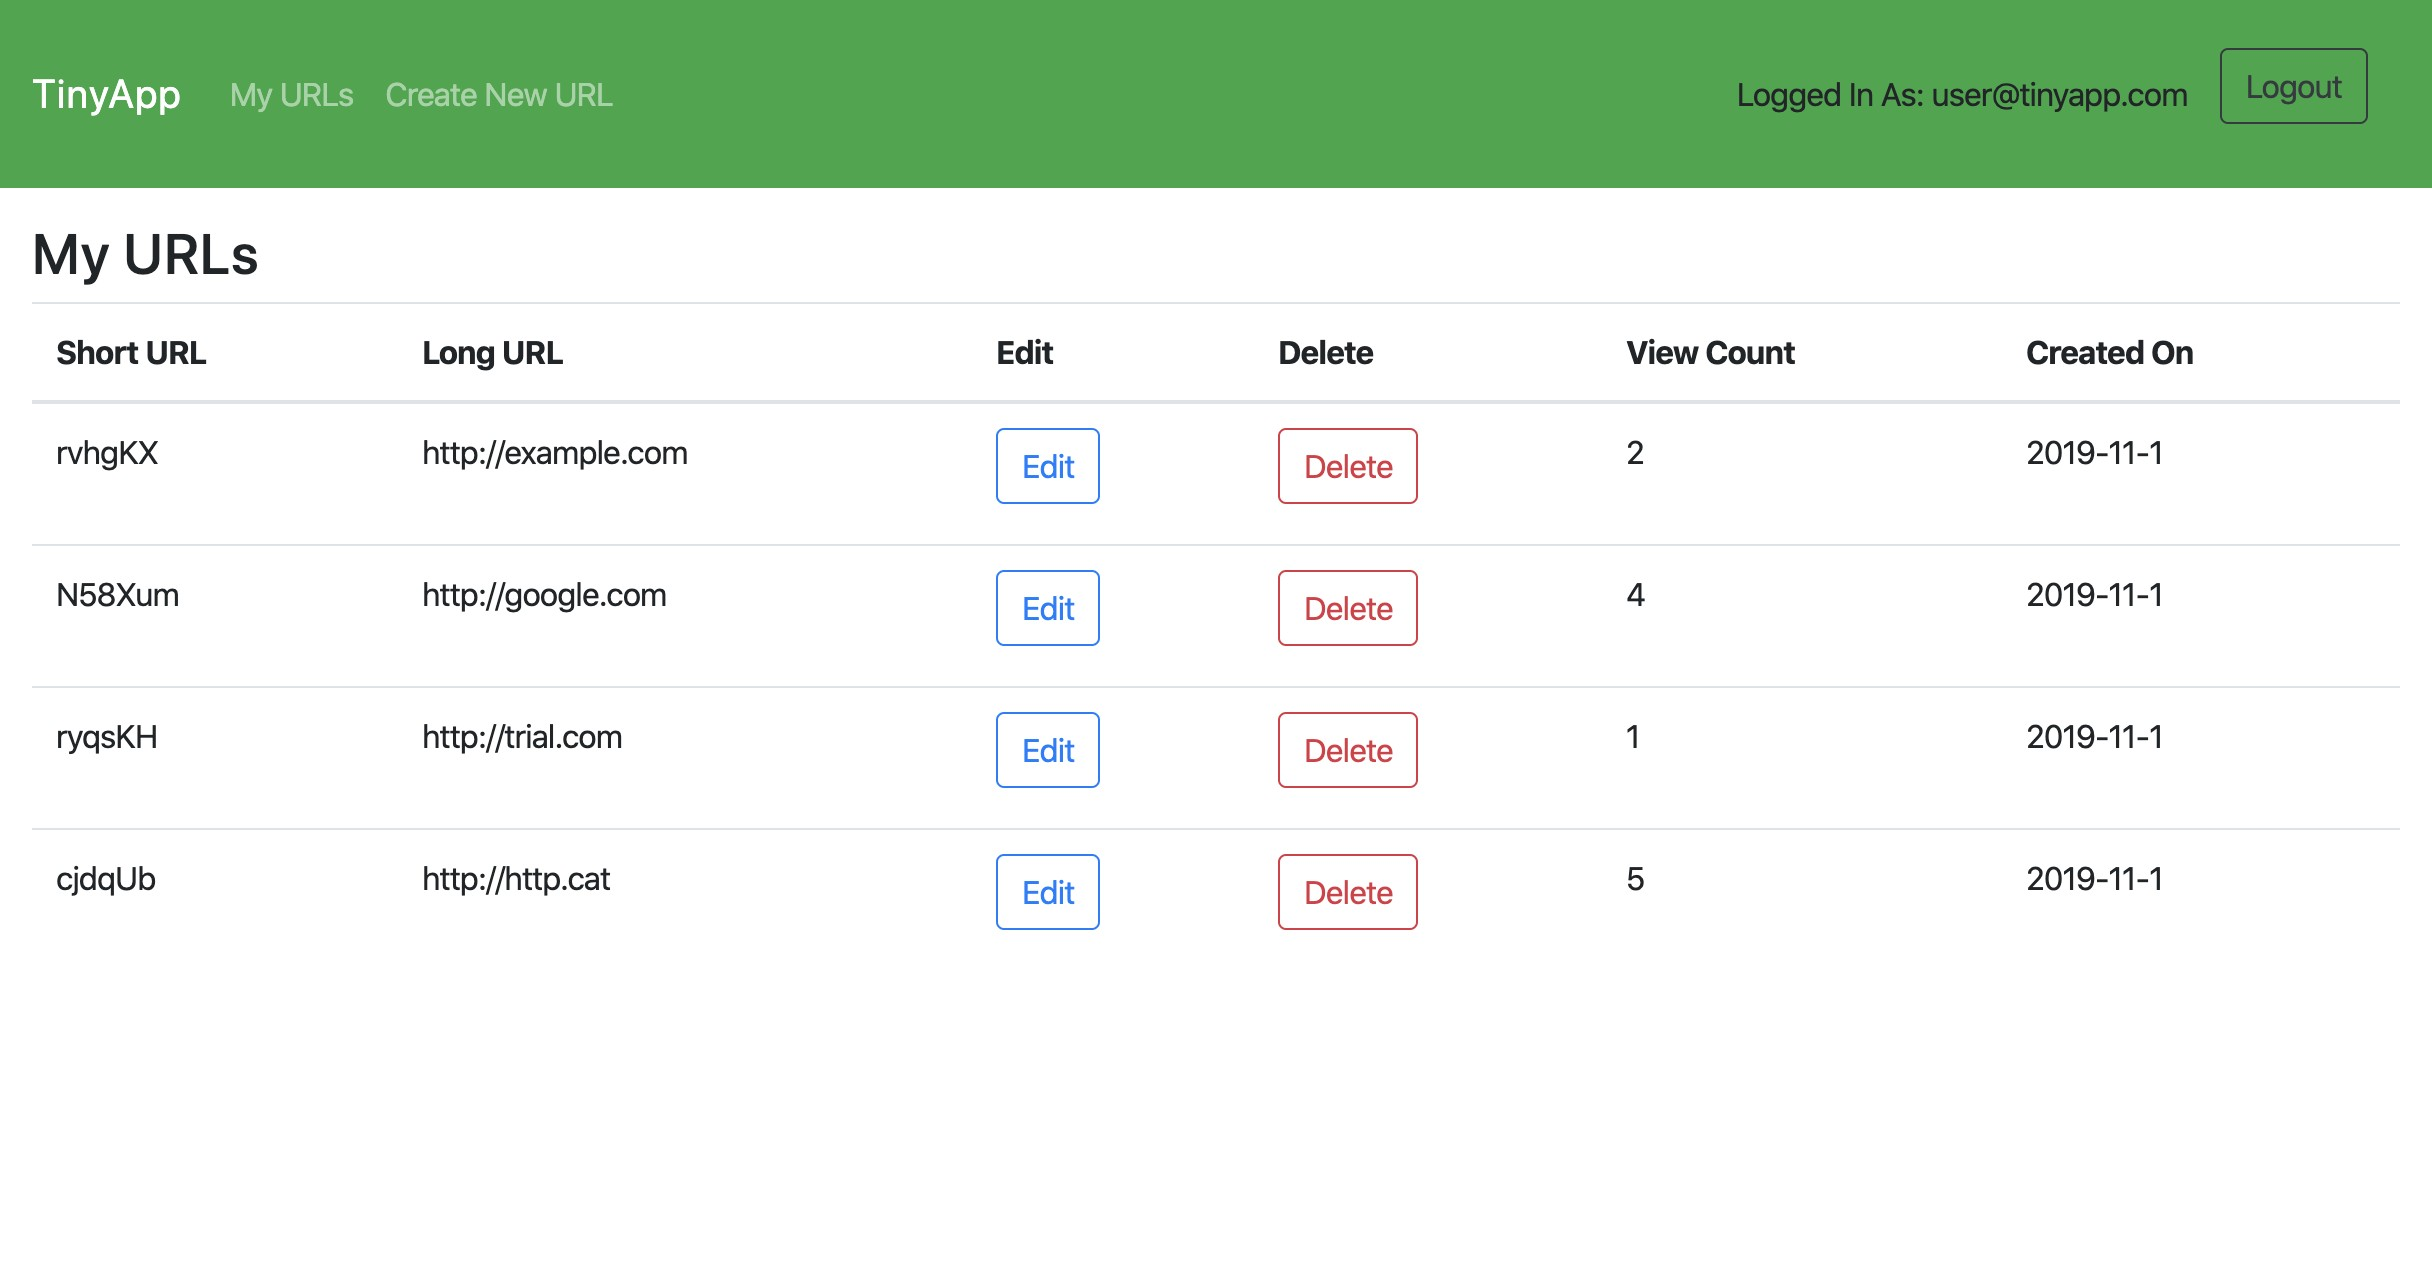
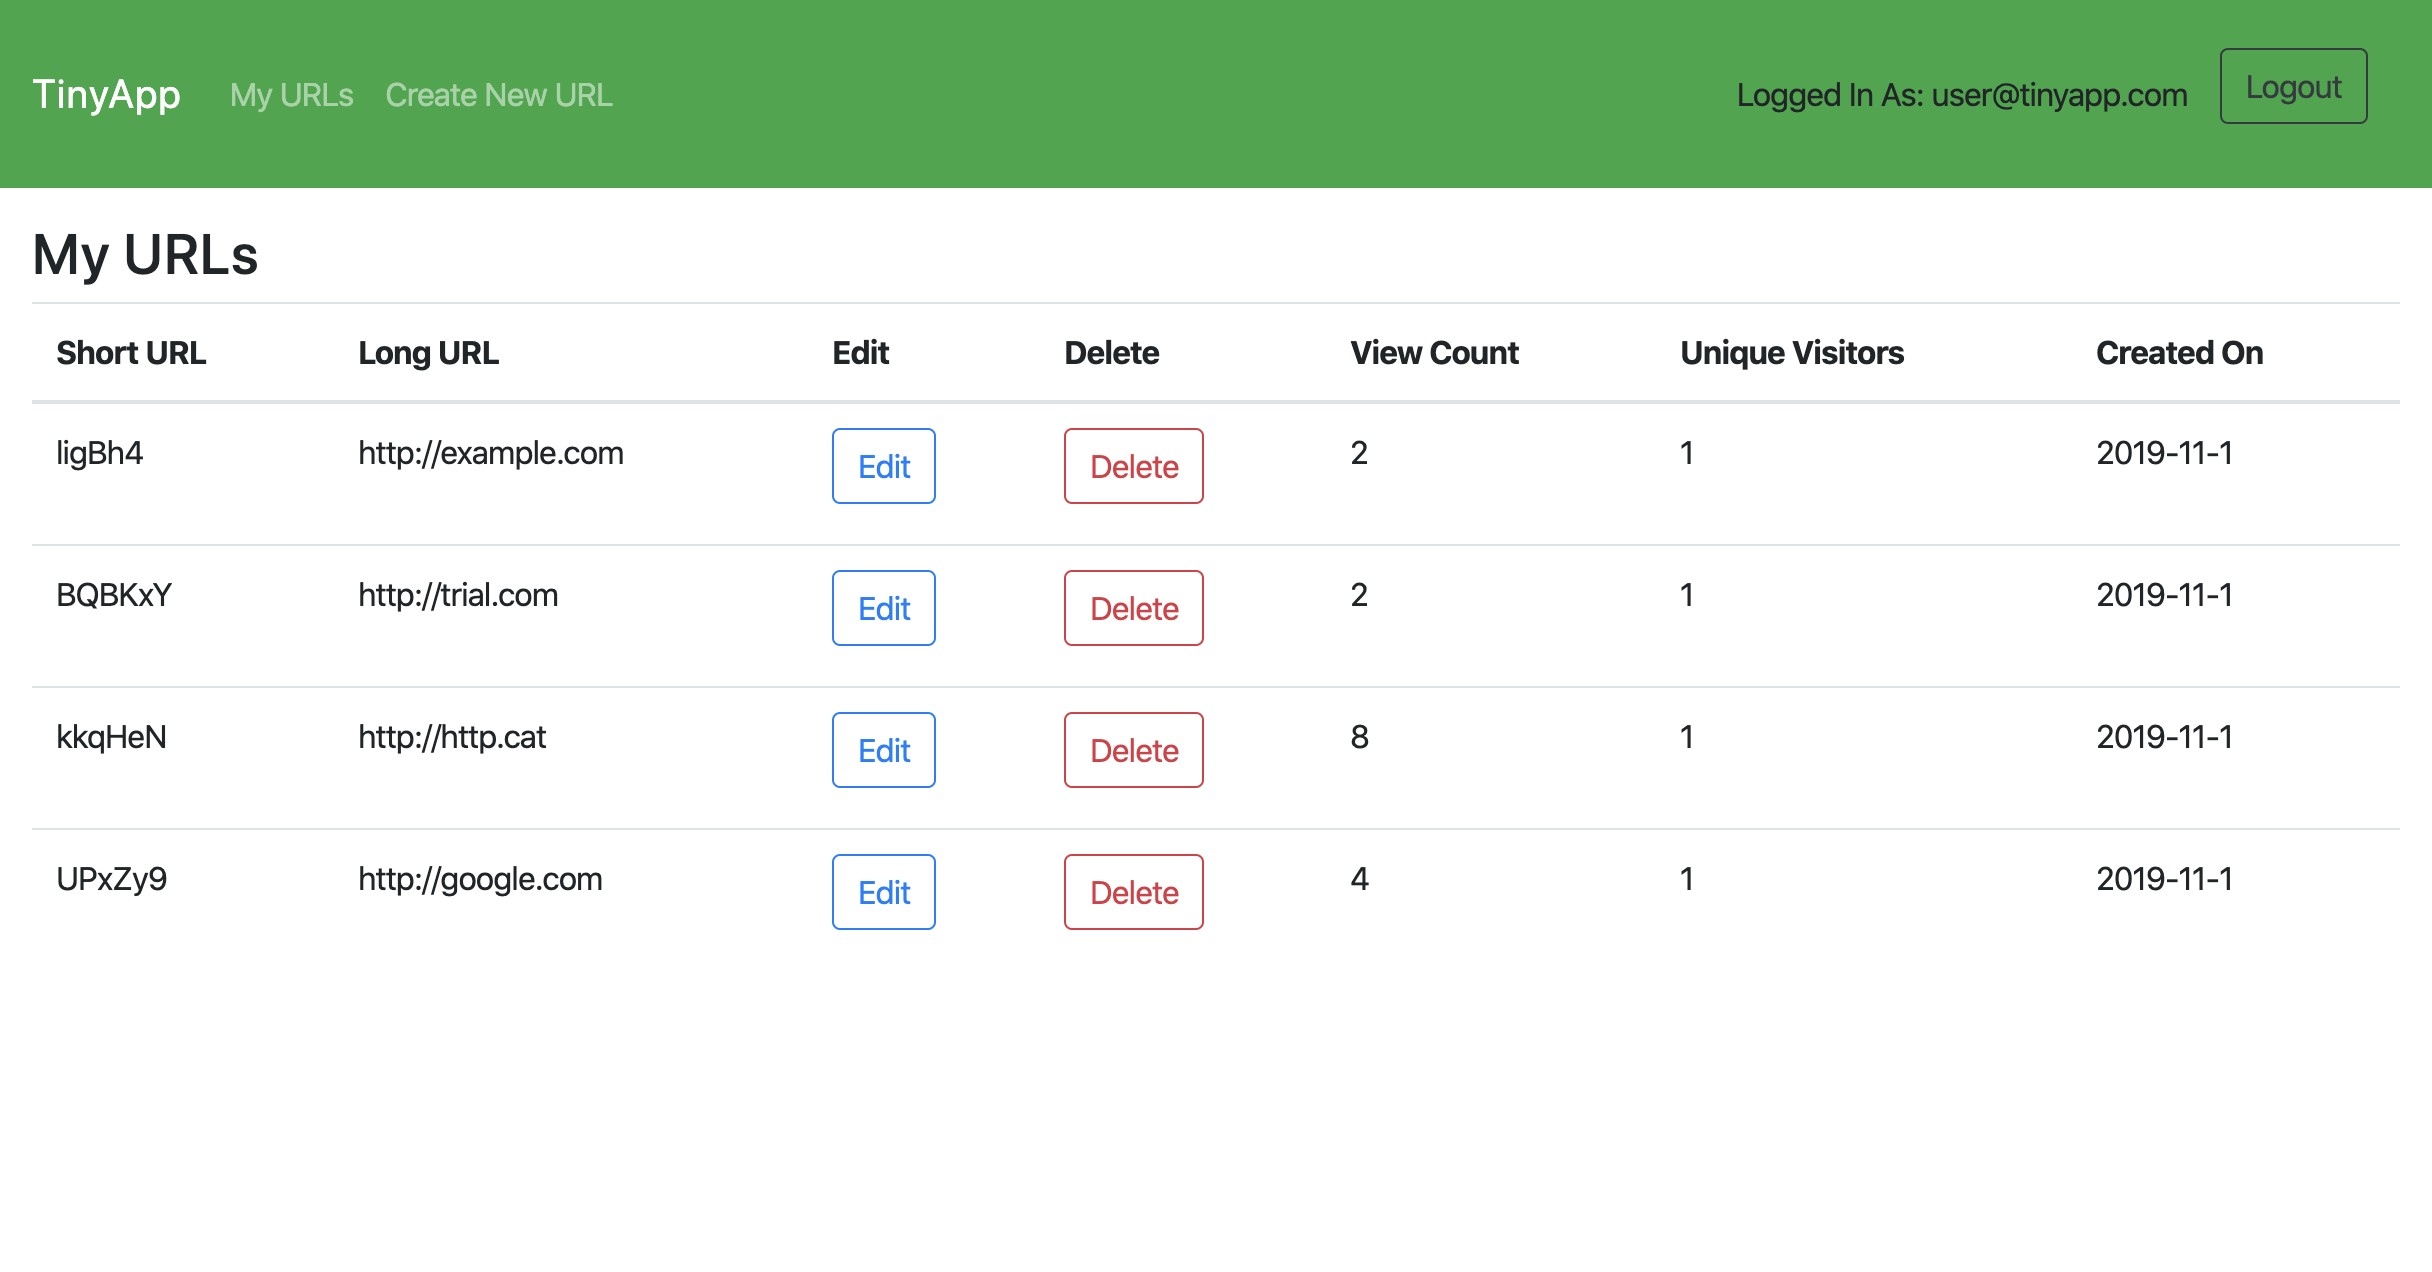
fixed unique visitor bug, updated README

diff --git a/express_server.js b/express_server.js
@@ -158,10 +158,14 @@ app.get("/u/:shortURL", (req, res) => {
   // Future Update: move most of this code into a helper function
   let visitorID = req.session.visitor_id;
   if (!visitorID) {
-    visitorID = generateRandomString();
-    req.session.visitor_id = visitorID;
-    urlDatabase[shortURL].uniqueVisitors.push(visitorID);
+    newID = generateRandomString();
+    req.session.visitor_id = newID;
+    visitorID = req.session.visitor_id
   }
+  if (!urlDatabase[shortURL].uniqueVisitors.includes(visitorID)) {
+      urlDatabase[shortURL].uniqueVisitors.push(visitorID);
+  }
+  
   
   res.redirect(longURL);
 });
